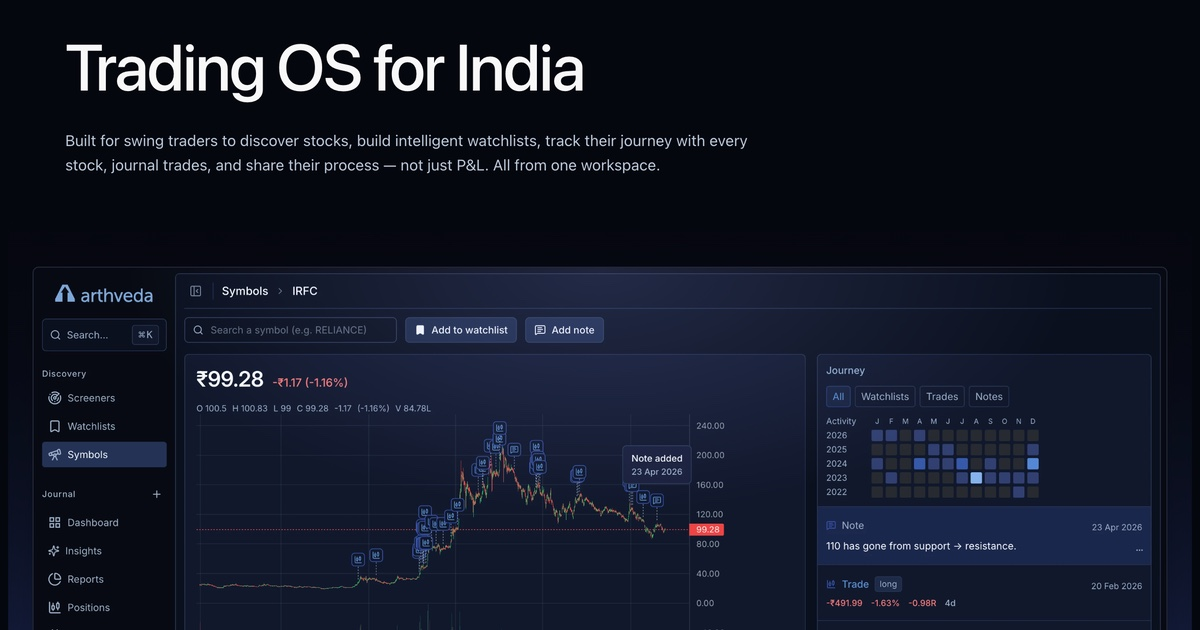
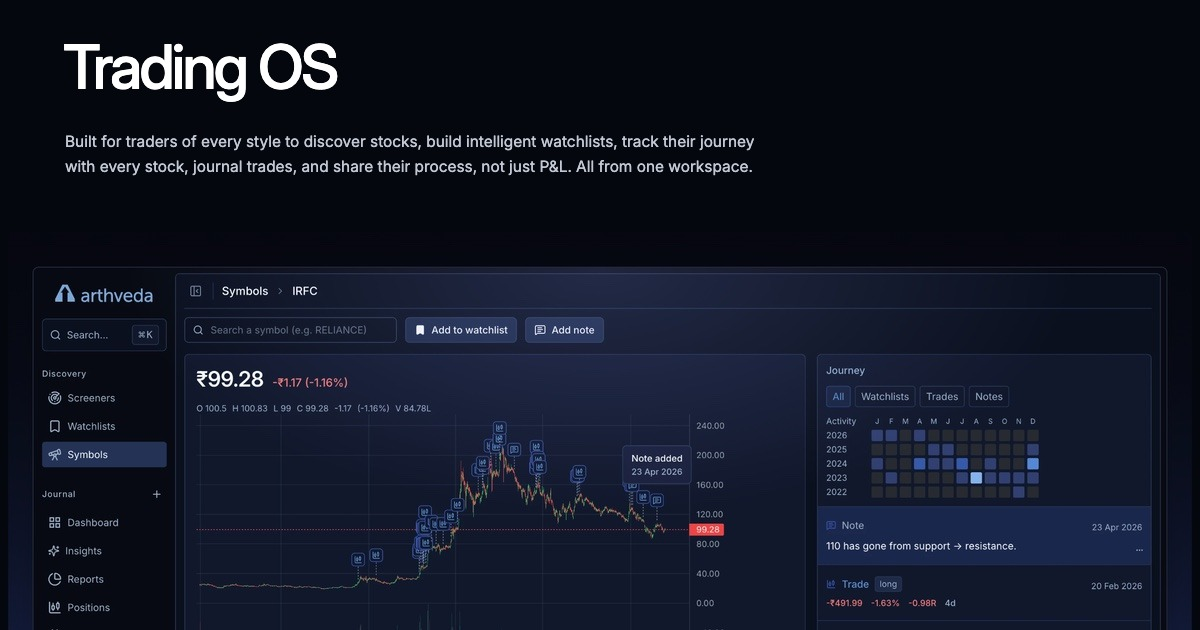
feat: Trading OS positioning, global but India-first
Drop "for India" from the tagline, title, meta and OG image, and the
"Indian traders" qualifiers from the copy (the founder story stays). The
hero gets a "For Indian and US markets" pill. The markets FAQ, Discover
and broker pages now say what US support covers (screener, watchlists,
Market Monitor, symbol pages, hand-logged USD trades; no US broker sync
yet), and the disclaimer names SEBI and the SEC.

Changed region(s): [[0.0617, 0.0603, 0.4933, 0.181], [0.0617, 0.2111, 0.6475, 0.2714]]

diff --git a/app/layout.tsx b/app/layout.tsx
@@ -21,9 +21,9 @@ const caveat = Caveat({
 });
 
 // v2 metadata (plan §1). Center dot `·`, never a pipe. No "free" callout.
-const TITLE = "Trading OS for India · Arthveda";
+const TITLE = "Trading OS · Arthveda";
 const DESCRIPTION =
-    "Built for Indian traders: discover stocks, build intelligent watchlists, track their journey with every stock, journal trades, and share their process.";
+    "Built for traders: discover stocks, build intelligent watchlists, track their journey with every stock, journal trades, and share their process.";
 
 // Next 15 wants themeColor in a viewport export, not metadata.
 export const viewport: Viewport = {
@@ -36,7 +36,13 @@ export const metadata: Metadata = {
     title: TITLE,
     description: DESCRIPTION,
 
+    // India-first search terms stay alongside the global ones: the tagline
+    // went global (2026-10-30), but India is still where the depth is.
     keywords: [
+        "trading OS",
+        "trading journal",
+        "stock screener",
+        "US stock screener",
         "trading OS India",
         "stock screener India",
         "swing trading India",
@@ -67,7 +73,7 @@ export const metadata: Metadata = {
                 width: 1200,
                 height: 630,
                 type: "image/jpeg",
-                alt: "Trading OS for India · Arthveda",
+                alt: "Trading OS · Arthveda",
             },
         ],
     },
@@ -108,11 +114,21 @@ export default function RootLayout({
                             operatingSystem: "Web",
                             description: DESCRIPTION,
                             url: "https://arthveda.app",
-                            offers: {
-                                "@type": "Offer",
-                                price: "2999",
-                                priceCurrency: "INR",
-                            },
+                            // Yearly price: USD is Paddle's base price,
+                            // INR its India override (lib/usePricing.ts).
+                            offers: [
+                                {
+                                    "@type": "Offer",
+                                    price: "49",
+                                    priceCurrency: "USD",
+                                },
+                                {
+                                    "@type": "Offer",
+                                    price: "2999",
+                                    priceCurrency: "INR",
+                                    eligibleRegion: { "@type": "Country", name: "IN" },
+                                },
+                            ],
                         }),
                     }}
                 />

diff --git a/components/hero.tsx b/components/hero.tsx
@@ -15,20 +15,30 @@ export default function Hero() {
                 reads "inside" the layout, à la Linear (the full-bleed video
                 stage below ignores this padding). */}
             <div className="max-w-3xl text-left lg:pl-8 xl:pl-12">
+                {/* Which markets, stated once, India first (global but
+                    India-first, 2026-10-31). The tagline itself names no
+                    country. Pill style matches feature_card's. */}
+                <span className="inline-block rounded-full border border-white/[0.06] bg-background/60 px-4 py-1.5 text-xs font-medium tracking-wide text-text-muted">
+                    For Indian and US markets
+                </span>
+
+                <div className="h-5 sm:h-6" />
+
                 <h1 className="font-heading text-text-primary text-[40px] sm:text-[52px] lg:text-[64px] font-medium leading-[1.04] tracking-[-0.025em]">
-                    Trading OS for India
+                    Trading OS
                 </h1>
 
                 <div className="h-6 sm:h-7" />
 
-                {/* Subtitle. No holding-period qualifier (2026-07-20): the
-                    differentiation is "India" + "one workspace", never the
-                    trading style. */}
+                {/* Subtitle. No holding-period qualifier (2026-07-20) and no
+                    "Indian" qualifier (2026-10-30, global but India-first): the
+                    differentiation is "OS" + "one workspace", never the
+                    trading style or the country. */}
                 <h2 className="font-content text-[15px] leading-[1.6] text-text-muted max-w-2xl">
-                    Built for Indian traders to discover stocks, build
-                    intelligent watchlists, track their journey with every
-                    stock, journal trades, and share their process — not just
-                    P&amp;L. All from one workspace.
+                    Built for traders to discover stocks, build intelligent
+                    watchlists, track their journey with every stock, journal
+                    trades, and share their process, not just P&amp;L. All
+                    from one workspace.
                 </h2>
 
                 <div className="h-9 sm:h-10" />

diff --git a/components/faq.tsx b/components/faq.tsx
@@ -45,13 +45,17 @@ const FAQS = [
         q: "Which markets and segments does it support?",
         a: (
             <>
-                Most of them. Your{" "}
+                India and the US. In India, your{" "}
                 <Link href="/product/journal">Journal</Link> takes everything
                 you trade: equity, crypto, and F&amp;O across stock, index, and
-                commodity, whether you sync it from Zerodha and other brokers or
-                log it by hand. The one stock-only part is{" "}
-                <Link href="/product/discover">Discover</Link>, the screener:
-                Indian equities on the NSE and BSE.
+                commodity on the NSE, BSE and MCX, whether you sync it from
+                Zerodha and other brokers or log it by hand. In the US,{" "}
+                <Link href="/product/discover">Discover</Link> covers the
+                S&amp;P 500, Nasdaq-100 and Dow stocks plus the major ETFs: the
+                screener, watchlists, Market Monitor and every stock&apos;s
+                chart and journey. US trades go in your journal by hand, in
+                dollars, alongside your rupee trades; US broker sync isn&apos;t
+                built yet.
             </>
         ),
     },

diff --git a/app/brokers/upstox/page.tsx b/app/brokers/upstox/page.tsx
@@ -54,7 +54,7 @@ const FAQ_SCHEMA = [
     },
     {
         q: "Does Arthveda support F&O for Upstox?",
-        a: "Equity and options, yes. Arthveda reads your Upstox trade report and brings in stocks and options automatically, resolving each contract to the right underlying, expiry, and strike. Futures import isn't built yet, but Upstox does export it, so ping us a sample report and we can add it. The journal itself handles everything you trade, and the one stock-only surface is the screener (NSE/BSE equities).",
+        a: "Equity and options, yes. Arthveda reads your Upstox trade report and brings in stocks and options automatically, resolving each contract to the right underlying, expiry, and strike. Futures import isn't built yet, but Upstox does export it, so ping us a sample report and we can add it. The journal itself handles everything you trade, and the one stock-only surface is the screener (NSE, BSE and US stocks).",
     },
     {
         q: "Is there a sync, or is it file upload only?",

diff --git a/app/brokers/indmoney/page.tsx b/app/brokers/indmoney/page.tsx
@@ -54,7 +54,7 @@ const FAQ_SCHEMA = [
     },
     {
         q: "Does Arthveda support F&O for INDmoney?",
-        a: "Yes. The tradebook import brings in stocks and options, detecting the CE/PE contract on each row. Broker Sync pulls everything: stocks, futures, options, and MCX commodities, so from the day you connect, your futures come in too. Older futures trades can be logged by hand. The journal itself handles everything you trade, and the one stock-only surface is the screener (NSE/BSE equities).",
+        a: "Yes. The tradebook import brings in stocks and options, detecting the CE/PE contract on each row. Broker Sync pulls everything: stocks, futures, options, and MCX commodities, so from the day you connect, your futures come in too. Older futures trades can be logged by hand. The journal itself handles everything you trade, and the one stock-only surface is the screener (NSE, BSE and US stocks).",
     },
     {
         q: "Is there a sync, or is it file upload only?",

diff --git a/app/brokers/angel-one/page.tsx b/app/brokers/angel-one/page.tsx
@@ -54,7 +54,7 @@ const FAQ_SCHEMA = [
     },
     {
         q: "Does Arthveda support F&O for Angel One?",
-        a: "Yes. Your Angel One trade history exports equity, futures, and options in one file, and Arthveda parses all three. Arthveda reads the segment and contract on each row, so a NIFTY option or a stock future comes in as the right instrument with the right expiry and strike. The journal itself handles everything you trade, and the one stock-only surface is the screener (NSE/BSE equities).",
+        a: "Yes. Your Angel One trade history exports equity, futures, and options in one file, and Arthveda parses all three. Arthveda reads the segment and contract on each row, so a NIFTY option or a stock future comes in as the right instrument with the right expiry and strike. The journal itself handles everything you trade, and the one stock-only surface is the screener (NSE, BSE and US stocks).",
     },
     {
         q: "Is there a sync, or is it file upload only?",

diff --git a/app/brokers/fyers/page.tsx b/app/brokers/fyers/page.tsx
@@ -54,7 +54,7 @@ const FAQ_SCHEMA = [
     },
     {
         q: "Does Arthveda support F&O for FYERS?",
-        a: "Yes. Your FYERS report exports equity, futures, and options in one file, and Arthveda parses all three. Arthveda reads the segment and contract on each row, so a NIFTY option or a stock future comes in as the right instrument with the right expiry and strike. The journal itself handles everything you trade, and the one stock-only surface is the screener (NSE/BSE equities).",
+        a: "Yes. Your FYERS report exports equity, futures, and options in one file, and Arthveda parses all three. Arthveda reads the segment and contract on each row, so a NIFTY option or a stock future comes in as the right instrument with the right expiry and strike. The journal itself handles everything you trade, and the one stock-only surface is the screener (NSE, BSE and US stocks).",
     },
     {
         q: "Should I export the Order Book or the Trade Book?",

diff --git a/app/brokers/kotak-securities/page.tsx b/app/brokers/kotak-securities/page.tsx
@@ -54,7 +54,7 @@ const FAQ_SCHEMA = [
     },
     {
         q: "Does Arthveda support F&O for Kotak Securities?",
-        a: "Yes. Your Kotak Securities report carries equity, futures, and options, and Arthveda parses all three. It reads the exchange and contract on each row, so a NIFTY option or a stock future comes in as the right instrument with the right expiry and strike. The journal itself handles everything you trade, and the one stock-only surface is the screener (NSE/BSE equities).",
+        a: "Yes. Your Kotak Securities report carries equity, futures, and options, and Arthveda parses all three. It reads the exchange and contract on each row, so a NIFTY option or a stock future comes in as the right instrument with the right expiry and strike. The journal itself handles everything you trade, and the one stock-only surface is the screener (NSE, BSE and US stocks).",
     },
     {
         q: "Is there a sync, or is it file upload only?",

diff --git a/app/brokers/groww/page.tsx b/app/brokers/groww/page.tsx
@@ -54,7 +54,7 @@ const FAQ_SCHEMA = [
     },
     {
         q: "Does Arthveda support F&O for Groww?",
-        a: "Yes, through Sync. Groww only lets you export equity (your Stock Order History), so the file import brings in stocks. Broker Sync pulls both stocks and F&O, so from the day you connect, your Groww F&O trades come in too. Older F&O trades can be logged by hand. The one stock-only surface is the screener (NSE/BSE equities).",
+        a: "Yes, through Sync. Groww only lets you export equity (your Stock Order History), so the file import brings in stocks. Broker Sync pulls both stocks and F&O, so from the day you connect, your Groww F&O trades come in too. Older F&O trades can be logged by hand. The one stock-only surface is the screener (NSE, BSE and US stocks).",
     },
     {
         q: "Is there a sync, or is it file upload only?",

diff --git a/app/brokers/definedge/page.tsx b/app/brokers/definedge/page.tsx
@@ -62,7 +62,7 @@ const FAQ_SCHEMA = [
     },
     {
         q: "Does Arthveda support F&O for Definedge?",
-        a: "Yes. NSE and BSE equity, F&O on NFO and BFO, and MCX commodity futures and options all come in through the Definedge sync, with each contract resolved to the right underlying, expiry, and strike. The journal itself handles everything you trade, and the one stock-only surface is the screener (NSE/BSE equities).",
+        a: "Yes. NSE and BSE equity, F&O on NFO and BFO, and MCX commodity futures and options all come in through the Definedge sync, with each contract resolved to the right underlying, expiry, and strike. The journal itself handles everything you trade, and the one stock-only surface is the screener (NSE, BSE and US stocks).",
     },
     {
         q: "I trade through more than one broker. Will it aggregate?",

diff --git a/app/about/page.tsx b/app/about/page.tsx
@@ -7,7 +7,7 @@ export default function AboutPage() {
             <h1 className="big-heading mb-12">About</h1>
 
             <p className="mb-4">
-                <strong>Arthveda</strong> is the Trading OS for India, built
+                <strong>Arthveda</strong> is the Trading OS, built
                 for serious traders of every style.
             </p>
             <p className="mb-4">
@@ -23,7 +23,7 @@ export default function AboutPage() {
                 from India.
             </p>
             <p className="mb-4">
-                The idea is simple: give Indian traders the tools to build a
+                The idea is simple: give traders the tools to build a
                 real trading process, and a reputation that rests on it. Process
                 over P&amp;L.
             </p>

diff --git a/app/brokers/dhan/page.tsx b/app/brokers/dhan/page.tsx
@@ -58,7 +58,7 @@ const FAQ_SCHEMA = [
     },
     {
         q: "Does Arthveda support F&O for Dhan?",
-        a: "Yes. Equity, futures, and options all come in through the Dhan sync, with each contract resolved to the right instrument, expiry, and strike. The journal itself handles everything you trade, and the one stock-only surface is the screener (NSE/BSE equities).",
+        a: "Yes. Equity, futures, and options all come in through the Dhan sync, with each contract resolved to the right instrument, expiry, and strike. The journal itself handles everything you trade, and the one stock-only surface is the screener (NSE, BSE and US stocks).",
     },
     {
         q: "I trade through more than one broker. Will it aggregate?",
